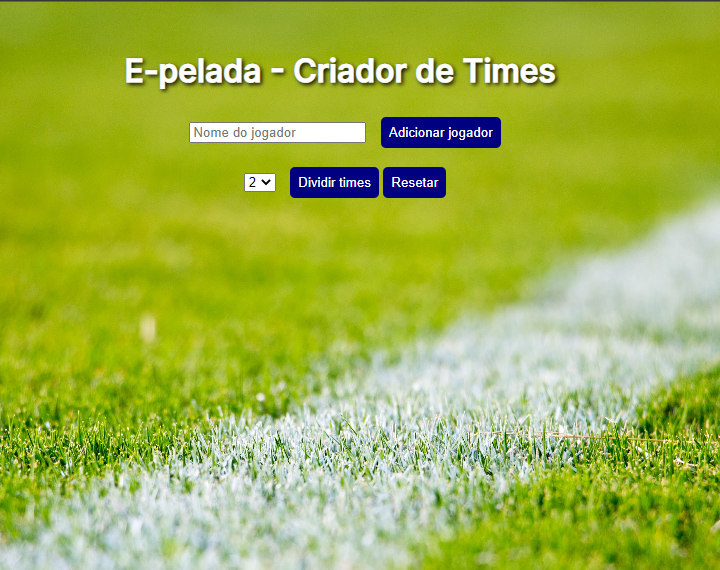
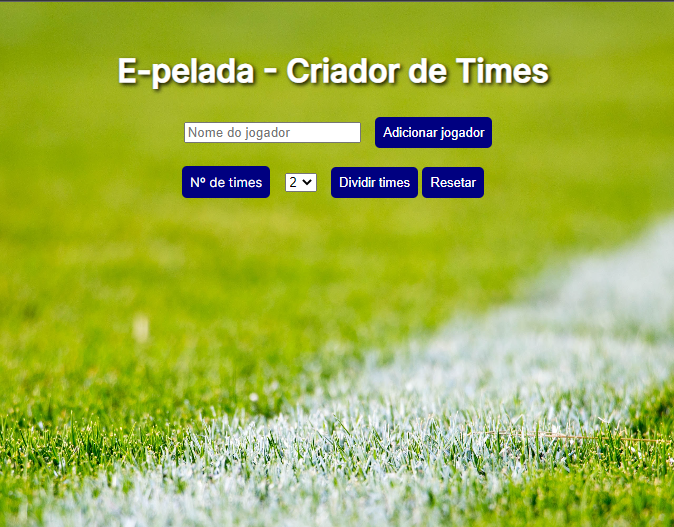
links and design adjusts

diff --git a/index.html b/index.html
@@ -19,6 +19,7 @@
       <input type="text" id="nomeJogador" placeholder="Nome do jogador" />
       <button onclick="adicionarJogador()">Adicionar jogador</button>
       <div id="jogadores"></div>
+      <label for="#numeroDeTimes">Nº de times</label>
       <select id="numeroDeTimes" onchange="setNumeroDeTimes(this.value)">
         <option value="2">2</option>
         <option value="3">3</option>

diff --git a/style.css b/style.css
@@ -38,10 +38,16 @@ select {
   font-weight: bold;
 }
 
-button {
+button,
+label {
   background-color: navy;
   border: none;
   padding: 8px;
   border-radius: 5px;
-  color: #fff;
+  color: white;
+  font-size: 13px;
+}
+
+button:hover {
+  scale: 1.05;
 }

diff --git a/README.md b/README.md
@@ -31,7 +31,9 @@ Esse projeto foi desenvolvido com as seguintes tecnologias:
 
 O E-pelada foi desenvolvido como prática de estudo em desenvolvimento front-end.
 
-- [Visite o projeto online](https://github.com/Cassiocominetti)
+- [Visite o projeto online](https://github.com/Cassiocominetti/E-pelada)
+
+- [Acesse o app](https://cassiocominetti.github.io/E-pelada/)
 
 ## Licença
 
